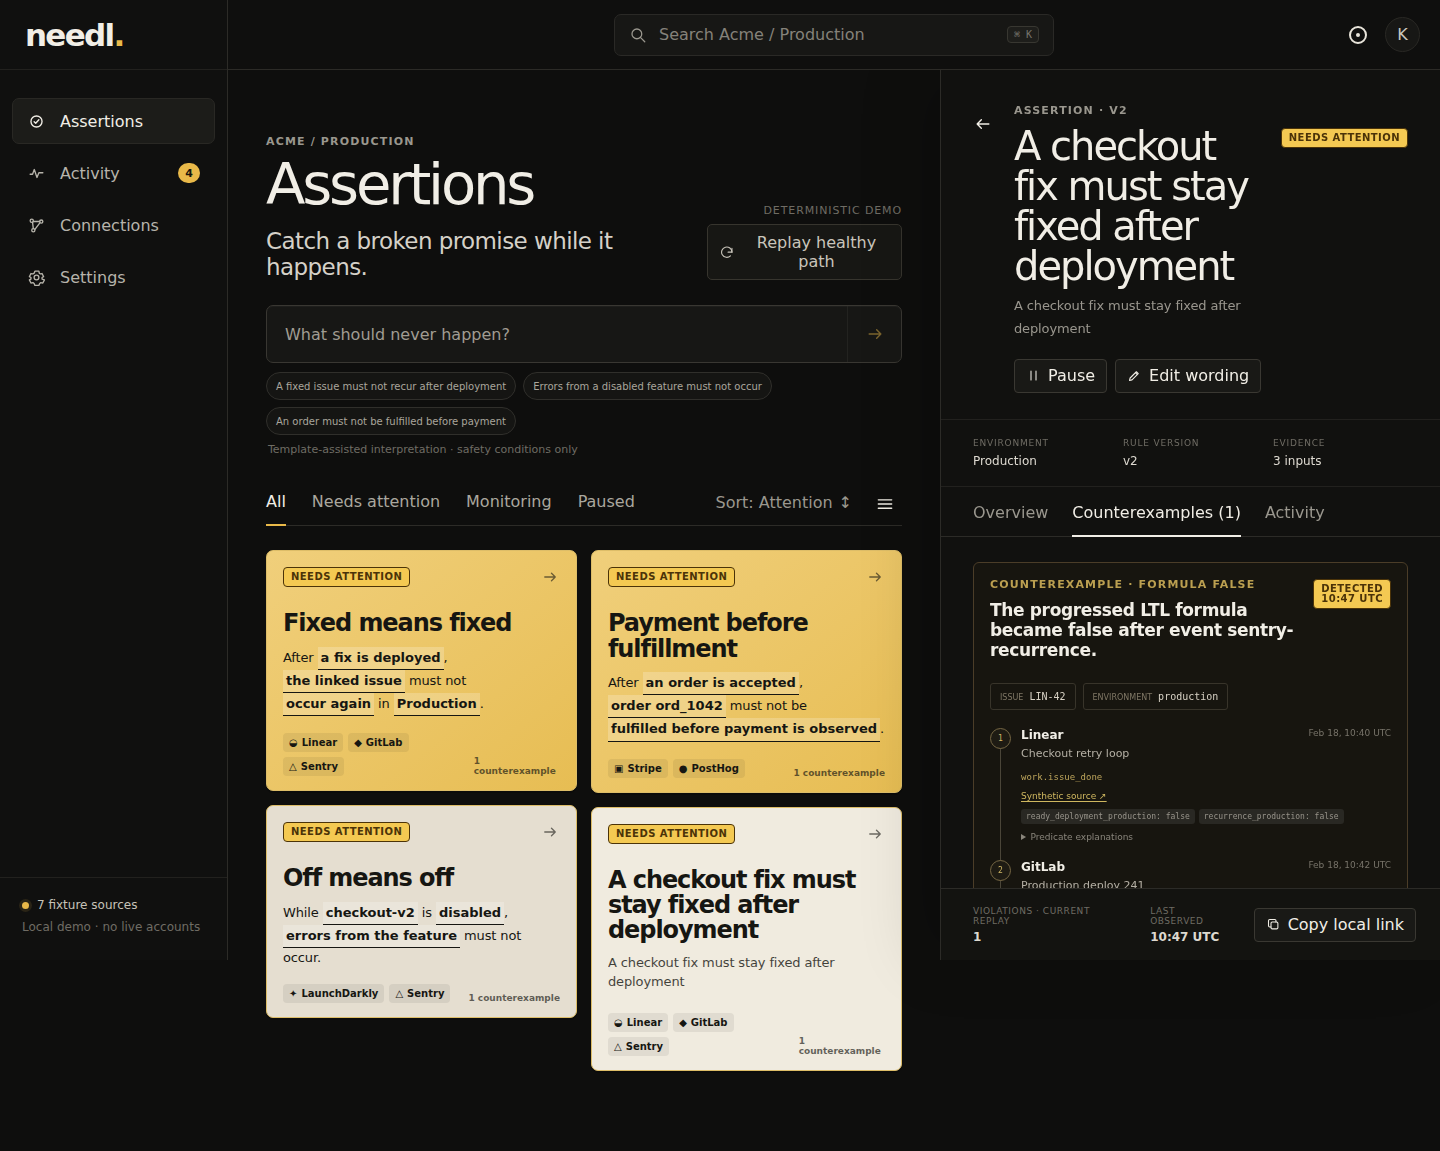
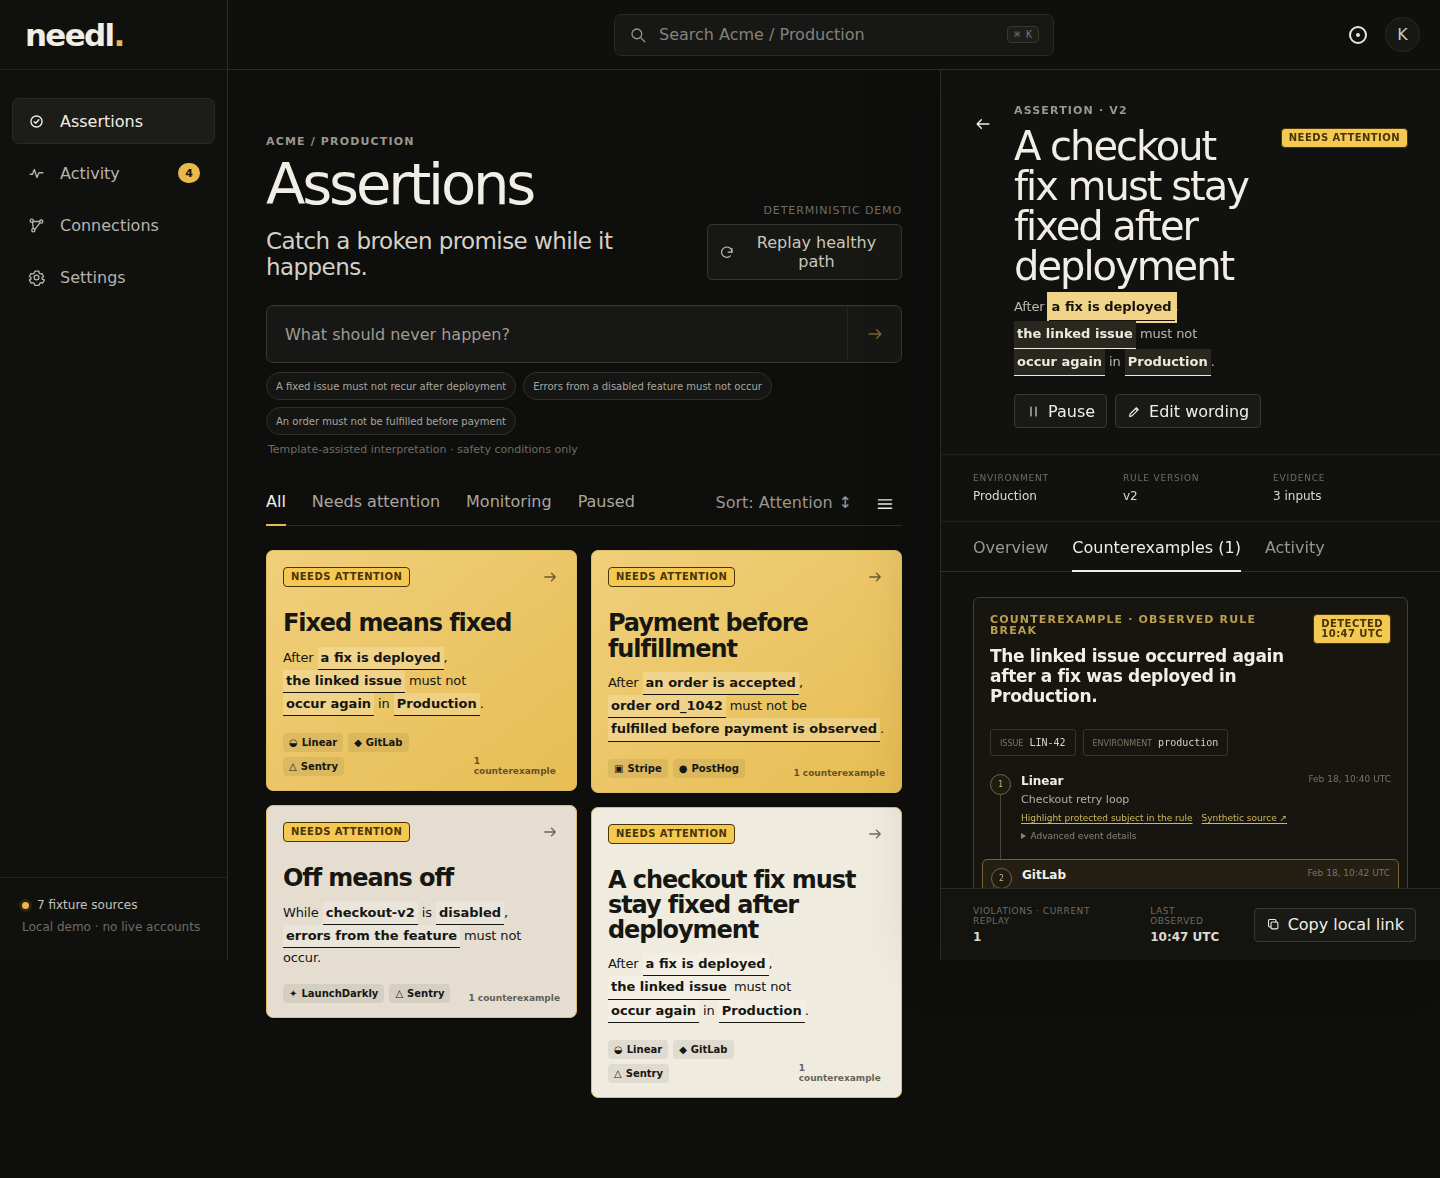
fix(web): derive evidence UX from canonical meaning

diff --git a/apps/web/src/meaning.ts b/apps/web/src/meaning.ts
@@ -22,6 +22,7 @@ export interface MeaningTemplate {
   readonly id: TemplateId;
   readonly fields: readonly MeaningField[];
   readonly sentence: readonly MeaningSegment[];
+  readonly violationSentence: readonly MeaningSegment[];
 }
 
 const eventIs = (provider: string, kind: string): Predicate => ({
@@ -45,6 +46,7 @@ export const meaningTemplates: Readonly<Record<TemplateId, MeaningTemplate>> = {
   recurrence: {
     id: "recurrence",
     sentence: ["After ", { field: "trigger" }, ", ", { field: "subject" }, " must not ", { field: "outcome" }, " in ", { field: "environment" }, "."],
+    violationSentence: ["The linked issue occurred again after a fix was deployed in ", { field: "environment" }, "."],
     fields: [
       { id: "trigger", accessibleLabel: "Trigger", options: [{ value: "deployed-fix", label: "a fix is deployed", evidence: "matched" }], eventKinds: ["fix.deployed"] },
       { id: "subject", accessibleLabel: "Protected subject", options: [{ value: "linked-issue", label: "the linked issue", evidence: "matched" }], eventKinds: ["work.issue_done", "fix.deployed", "error.recurred"] },
@@ -58,6 +60,7 @@ export const meaningTemplates: Readonly<Record<TemplateId, MeaningTemplate>> = {
   feature: {
     id: "feature",
     sentence: ["While ", { field: "feature" }, " is ", { field: "state" }, ", ", { field: "outcome" }, " must not occur."],
+    violationSentence: ["Errors from ", { field: "feature" }, " occurred while the feature was ", { field: "state" }, "."],
     fields: [
       { id: "feature", accessibleLabel: "Feature", options: [
         { value: "checkout-v2", label: "checkout-v2", evidence: "matched" },
@@ -70,6 +73,7 @@ export const meaningTemplates: Readonly<Record<TemplateId, MeaningTemplate>> = {
   order: {
     id: "order",
     sentence: ["After ", { field: "boundary" }, ", ", { field: "subject" }, " must not be ", { field: "outcome" }, "."],
+    violationSentence: [{ field: "subject" }, " was fulfilled before its payment was observed."],
     fields: [
       { id: "boundary", accessibleLabel: "Observed lifecycle boundary", options: [{ value: "accepted", label: "an order is accepted", evidence: "matched" }], eventKinds: ["order.accepted"] },
       { id: "subject", accessibleLabel: "Order", options: [
@@ -87,6 +91,30 @@ export function defaultMeaningValues(templateId: TemplateId): Readonly<Record<st
 
 export function meaningOption(templateId: TemplateId, fieldId: string, value: string): MeaningOption | undefined {
   return meaningTemplates[templateId].fields.find((field) => field.id === fieldId)?.options.find((option) => option.value === value);
+}
+
+function renderMeaningSegments(
+  templateId: TemplateId,
+  values: Readonly<Record<string, string>>,
+  segments: readonly MeaningSegment[],
+): string {
+  const rendered = segments.map((segment) => {
+    if (typeof segment === "string") return segment;
+    return meaningOption(templateId, segment.field, values[segment.field] ?? "")?.label ?? "the selected value";
+  }).join("");
+  return rendered.length === 0 ? rendered : rendered[0]!.toUpperCase() + rendered.slice(1);
+}
+
+export function meaningRuleText(draft: AssertionDraft): string | undefined {
+  if (draft.meaning === undefined) return undefined;
+  const template = meaningTemplates[draft.meaning.templateId];
+  return renderMeaningSegments(template.id, draft.meaning.values, template.sentence);
+}
+
+export function meaningViolationText(draft: AssertionDraft): string | undefined {
+  if (draft.meaning === undefined) return undefined;
+  const template = meaningTemplates[draft.meaning.templateId];
+  return renderMeaningSegments(template.id, draft.meaning.values, template.violationSentence);
 }
 
 export function fieldForEventKind(templateId: TemplateId, eventKind: string): string | undefined {
@@ -125,6 +153,28 @@ export function assertMeaningMatchesMonitor(draft: AssertionDraft): void {
   if (canonicalJson(expected) !== canonicalJson(draft.definition)) {
     throw new Error(`Assertion ${draft.localId} meaning does not match its stored monitor`);
   }
+}
+
+function meaningValueCombinations(templateId: TemplateId): Readonly<Record<string, string>>[] {
+  return meaningTemplates[templateId].fields.reduce<Readonly<Record<string, string>>[]>(
+    (combinations, field) => combinations.flatMap((values) => field.options.map((option) => ({ ...values, [field.id]: option.value }))),
+    [{}],
+  );
+}
+
+export function restoreCanonicalMeaning(draft: AssertionDraft): AssertionDraft {
+  if (draft.meaning !== undefined || draft.templateId === undefined || !(draft.templateId in meaningTemplates)) return draft;
+  const templateId = draft.templateId as TemplateId;
+  for (const values of meaningValueCombinations(templateId)) {
+    const candidate = { ...draft, meaning: { templateId, values } };
+    try {
+      assertMeaningMatchesMonitor(candidate);
+      return candidate;
+    } catch {
+      // A template label or ID is not enough: restore meaning only for an exact canonical monitor match.
+    }
+  }
+  return draft;
 }
 
 export function buildTemplateDefinition(

diff --git a/apps/web/src/App.tsx b/apps/web/src/App.tsx
@@ -28,6 +28,7 @@ import {
   fieldForEventKind,
   meaningOption,
   meaningTemplates,
+  meaningViolationText,
 } from "./meaning.js";
 import { EVENTUALITY_EXPLANATION, unsupportedAuthoringIntent } from "./safety.js";
 
@@ -380,13 +381,15 @@ function TraceTimeline({ trace, draft, activeField, onActiveField }: {
         <div><strong>{item.type === "observation" ? providerNames[item.source.provider] : item.type === "tick" ? "Clock tick" : "Finalization"}</strong><time dateTime={item.at}>{formatDateTime(item.at)} UTC</time></div>
         {item.type === "observation" ? <>
           <p>{item.source.subject.name ?? item.source.subject.id}</p>
-          <code>{item.source.kind}</code>
           <div className="trace-links">
             {eventField !== undefined ? <button type="button" onClick={() => onActiveField(eventField)}>Highlight {eventFieldLabel?.toLowerCase() ?? "its role"} in the rule</button> : null}
             {item.source.links[0] !== undefined ? <a href={item.source.links[0].url} target="_blank" rel="noreferrer">Synthetic source ↗</a> : null}
           </div>
-          <div className="valuation">{Object.entries(item.valuation).map(([name, value]) => <span className={value ? "is-true" : "is-false"} key={name}>{name}: {String(value)}</span>)}</div>
-          <details><summary>Predicate explanations</summary>{Object.entries(item.evaluations).map(([name, evaluation]) => <p key={name}><b>{name}</b> — {evaluation.explanation}</p>)}</details>
+          <details className="advanced-evidence"><summary>Advanced event details</summary>
+            <code>{item.source.kind}</code>
+            <div className="valuation">{Object.entries(item.valuation).map(([name, value]) => <span className={value ? "is-true" : "is-false"} key={name}>{name}: {String(value)}</span>)}</div>
+            <div className="predicate-explanations">{Object.entries(item.evaluations).map(([name, evaluation]) => <p key={name}><b>{name}</b> — {evaluation.explanation}</p>)}</div>
+          </details>
         </> : <p>Explicit demo clock input; silence alone never advances deadlines.</p>}
       </div>
     </li>})}
@@ -400,18 +403,16 @@ function CounterexampleView({ violation, draft, activeField, onActiveField }: {
   readonly onActiveField: (fieldId: string) => void;
 }) {
   return <article className="counterexample">
-    <header><div><span className="eyebrow">Counterexample · {violation.cause.replaceAll("_", " ")}</span><h3>{violation.explanation}</h3></div><Pill tone="violated">Detected {formatTime(violation.detectedAt)} UTC</Pill></header>
+    <header><div><span className="eyebrow">Counterexample · observed rule break</span><h3>{meaningViolationText(draft) ?? "The observed event sequence broke this rule."}</h3></div><Pill tone="violated">Detected {formatTime(violation.detectedAt)} UTC</Pill></header>
     <div className="binding-row">{Object.entries(violation.scope).map(([key, value]) => <span key={key}><small>{key}</small>{value}</span>)}</div>
     <TraceTimeline trace={violation.trace} draft={draft} activeField={activeField} onActiveField={onActiveField}/>
+    <details className="advanced-evidence counterexample-engine-details"><summary>Advanced engine details</summary><dl><div><dt>Technical cause</dt><dd><code>{violation.cause}</code></dd></div><div><dt>Engine explanation</dt><dd>{violation.explanation}</dd></div></dl></details>
     <p className="evidence-note">This is a sufficient engine trace, not a minimality claim. Source references are synthetic fixture evidence.</p>
   </article>;
 }
 
 function violationSummary(draft: AssertionDraft): string {
-  if (draft.meaning?.templateId === "feature") return "Checkout-v2 produced an error while disabled.";
-  if (draft.meaning?.templateId === "order") return `${meaningOption("order", "subject", draft.meaning.values.subject ?? "")?.label ?? "The order"} was fulfilled before its payment was observed.`;
-  if (draft.meaning?.templateId === "recurrence") return `The linked issue occurred again after its fix was deployed in ${meaningOption("recurrence", "environment", draft.meaning.values.environment ?? "")?.label ?? "the selected environment"}.`;
-  return "The observed event sequence broke this rule.";
+  return meaningViolationText(draft) ?? "The observed event sequence broke this rule.";
 }
 
 function AssertionDetail({ draft, templates, replay, onClose, onToggle, onEdit, onCopy, onMeaningChange }: {

diff --git a/apps/web/src/authoring.test.ts b/apps/web/src/authoring.test.ts
@@ -2,6 +2,7 @@ import { describe, expect, it } from "vitest";
 import { authoringTemplates } from "../demo.js";
 import { createDraftFromTemplate, formulaText, updateDraft, updateMeaningChoice } from "./authoring.js";
 import { validateProductAssertionCollection } from "./collection.js";
+import { meaningRuleText, meaningViolationText } from "./meaning.js";
 
 describe("explicit template authoring", () => {
   it("creates a paused, uniquely identified draft without claiming general translation", () => {
@@ -22,6 +23,34 @@ describe("explicit template authoring", () => {
     }, "2026-01-02T00:00:00.000Z");
     expect(formulaText(edited)).toBe(`G !${recurrence}`);
     expect(edited.definition.version).toBe(2);
+    expect(edited.meaning).toBeUndefined();
+  });
+
+  it("keeps canonical meaning metadata when only user-facing wording changes", () => {
+    const draft = createDraftFromTemplate("Keep checkout quiet", authoringTemplates[0]!, []);
+    const edited = updateDraft(draft, {
+      expectation: "A renamed checkout repair stays repaired",
+      formula: formulaText(draft),
+      definitionJson: JSON.stringify(draft.definition),
+    }, "2026-01-02T00:00:00.000Z");
+
+    expect(edited.localId).toBe(draft.localId);
+    expect(edited.meaning).toEqual(draft.meaning);
+    expect(meaningRuleText(edited)).toBe("After a fix is deployed, the linked issue must not occur again in Production.");
+    expect(meaningViolationText(edited)).toBe("The linked issue occurred again after a fix was deployed in Production.");
+  });
+
+  it("derives business explanations from canonical meaning for every cloned template ID", () => {
+    const explanations = authoringTemplates.map((template, index) => {
+      const draft = createDraftFromTemplate(`Cloned rule ${index}`, template, []);
+      return meaningViolationText(draft);
+    });
+
+    expect(explanations).toEqual([
+      "The linked issue occurred again after a fix was deployed in Production.",
+      "Errors from checkout-v2 occurred while the feature was disabled.",
+      "Order ord_1042 was fulfilled before its payment was observed.",
+    ]);
   });
 
   it("rejects liveness edits at the advanced-editor boundary", () => {

diff --git a/apps/web/src/styles.css b/apps/web/src/styles.css
@@ -216,16 +216,22 @@ h1, h2, h3, p { margin-top: 0; }
 .trace-main strong { font-size: 12px; }
 .trace-main time { color: #777369; font-size: 9px; }
 .trace-main > p { margin: 5px 0; color: #b4afa4; font-size: 11px; }
-.trace-main > code { color: #bca45b; font-size: 9px; }
 .trace-links { margin-top: 7px; display: flex; flex-wrap: wrap; gap: 9px; }
 .trace-links button, .trace-links a { padding: 0; border: 0; color: #cfb75f; background: transparent; font-size: 9px; text-decoration: underline; text-underline-offset: 2px; cursor: pointer; }
 .valuation { margin-top: 8px; display: flex; flex-wrap: wrap; gap: 4px; }
 .valuation span { padding: 3px 5px; border-radius: 3px; font: 8px ui-monospace, monospace; }
 .valuation .is-true { color: #b7cb9c; background: #273021; }
 .valuation .is-false { color: #97938a; background: #292823; }
-.trace-main details { margin-top: 8px; color: #89857b; font-size: 9px; }
-.trace-main details summary { cursor: pointer; }
-.trace-main details p { margin: 5px 0; padding: 6px; color: #aaa69c; background: #ffffff05; font: 9px/1.4 ui-monospace, monospace; overflow-wrap: anywhere; }
+.advanced-evidence { margin-top: 8px; color: #89857b; font-size: 9px; }
+.advanced-evidence summary { cursor: pointer; }
+.advanced-evidence code { display: inline-block; margin-top: 7px; color: #bca45b; font-size: 9px; }
+.predicate-explanations p { margin: 5px 0; padding: 6px; color: #aaa69c; background: #ffffff05; font: 9px/1.4 ui-monospace, monospace; overflow-wrap: anywhere; }
+.counterexample-engine-details { margin: 3px 0 12px; padding: 9px 0; border-top: 1px solid #29271f; }
+.counterexample-engine-details dl { margin: 9px 0 0; display: grid; gap: 7px; }
+.counterexample-engine-details dl > div { display: grid; grid-template-columns: 90px minmax(0, 1fr); gap: 8px; }
+.counterexample-engine-details dt { color: #777268; }
+.counterexample-engine-details dd { margin: 0; color: #aaa69c; overflow-wrap: anywhere; }
+.counterexample-engine-details code { margin: 0; }
 .evidence-note { margin: 2px 0 0; padding-top: 11px; border-top: 1px solid #29271f; color: #716d64; font-size: 9px; line-height: 1.5; }
 
 .page { max-width: 1240px; margin: 0 auto; }

diff --git a/apps/web/src/authoring.ts b/apps/web/src/authoring.ts
@@ -3,7 +3,7 @@ import { formatFormula, parseFormula } from "../../../src/ltl/formula.js";
 import type { AssertionDraft, AuthoringTemplate } from "./domain.js";
 import { assertAssertionCapacity } from "./collection.js";
 import { assertProductSafety } from "./safety.js";
-import { buildTemplateDefinition, defaultMeaningValues, meaningOption } from "./meaning.js";
+import { assertMeaningMatchesMonitor, buildTemplateDefinition, defaultMeaningValues, meaningOption } from "./meaning.js";
 
 function slug(value: string): string {
   const normalized = value.toLowerCase().replace(/[^a-z0-9]+/g, "-").replace(/^-|-$/g, "").slice(0, 36);
@@ -65,7 +65,15 @@ export function updateDraft(
   };
   compileAssertion(definition);
   assertProductSafety(definition);
-  return { ...draft, expectation, definition, status: draft.status === "needs-review" ? "paused" : draft.status, meaning: undefined, reviewReason: undefined, updatedAt: now };
+  let meaning = draft.meaning;
+  if (meaning !== undefined) {
+    try {
+      assertMeaningMatchesMonitor({ ...draft, expectation, definition, meaning });
+    } catch {
+      meaning = undefined;
+    }
+  }
+  return { ...draft, expectation, definition, status: draft.status === "needs-review" ? "paused" : draft.status, meaning, reviewReason: undefined, updatedAt: now };
 }
 
 export function updateMeaningChoice(

diff --git a/apps/web/src/storage.test.ts b/apps/web/src/storage.test.ts
@@ -2,6 +2,8 @@ import { describe, expect, it } from "vitest";
 import { parseStoredAssertions, serializeAssertions } from "./storage.js";
 import { validateProductAssertionCollection } from "./collection.js";
 import type { AssertionDraft } from "./domain.js";
+import { authoringTemplates } from "../demo.js";
+import { createDraftFromTemplate } from "./authoring.js";
 
 const valid: AssertionDraft = {
   localId: "local-1",
@@ -23,6 +25,16 @@ const valid: AssertionDraft = {
 describe("assertion storage", () => {
   it("round-trips a validated assertion envelope", () => {
     expect(parseStoredAssertions(serializeAssertions([valid]))).toEqual([valid]);
+  });
+
+  it("restores canonical meaning for legacy authored clones without relying on a built-in ID", () => {
+    const authored = createDraftFromTemplate("A renamed recurrence rule", authoringTemplates[0]!, []);
+    const legacy = { ...authored, meaning: undefined };
+    const restored = parseStoredAssertions(JSON.stringify({ version: 1, assertions: [legacy] }));
+
+    expect(restored[0]!.localId).toMatch(/^local-/);
+    expect(restored[0]!.localId).not.toBe(authoringTemplates[0]!.definition.id);
+    expect(restored[0]!.meaning).toEqual(authored.meaning);
   });
 
   it.each(["not json", "{}", '{"version":2,"assertions":[]}', '{"version":1,"assertions":[{"localId":"x"}]}'])(

diff --git a/apps/web/src/storage.ts b/apps/web/src/storage.ts
@@ -2,6 +2,7 @@ import type { AssertionDraft, StoredAssertionEnvelope } from "./domain.js";
 import { STORAGE_VERSION } from "./domain.js";
 import { validateAssertionCollection, validateProductAssertionCollection } from "./collection.js";
 import { productSafetyIssue } from "./safety.js";
+import { restoreCanonicalMeaning } from "./meaning.js";
 
 export function parseStoredAssertions(raw: string | null): AssertionDraft[] {
   if (raw === null) return [];
@@ -9,7 +10,8 @@ export function parseStoredAssertions(raw: string | null): AssertionDraft[] {
     const parsed = JSON.parse(raw) as Partial<StoredAssertionEnvelope>;
     if (parsed.version !== STORAGE_VERSION || !Array.isArray(parsed.assertions)) return [];
     const validated = validateAssertionCollection(parsed.assertions);
-    const migrated = validated.map((draft): AssertionDraft => {
+    const migrated = validated.map((storedDraft): AssertionDraft => {
+      const draft = restoreCanonicalMeaning(storedDraft);
       const reviewReason = productSafetyIssue(draft.definition);
       return reviewReason === undefined ? draft : { ...draft, status: "needs-review", reviewReason };
     });
